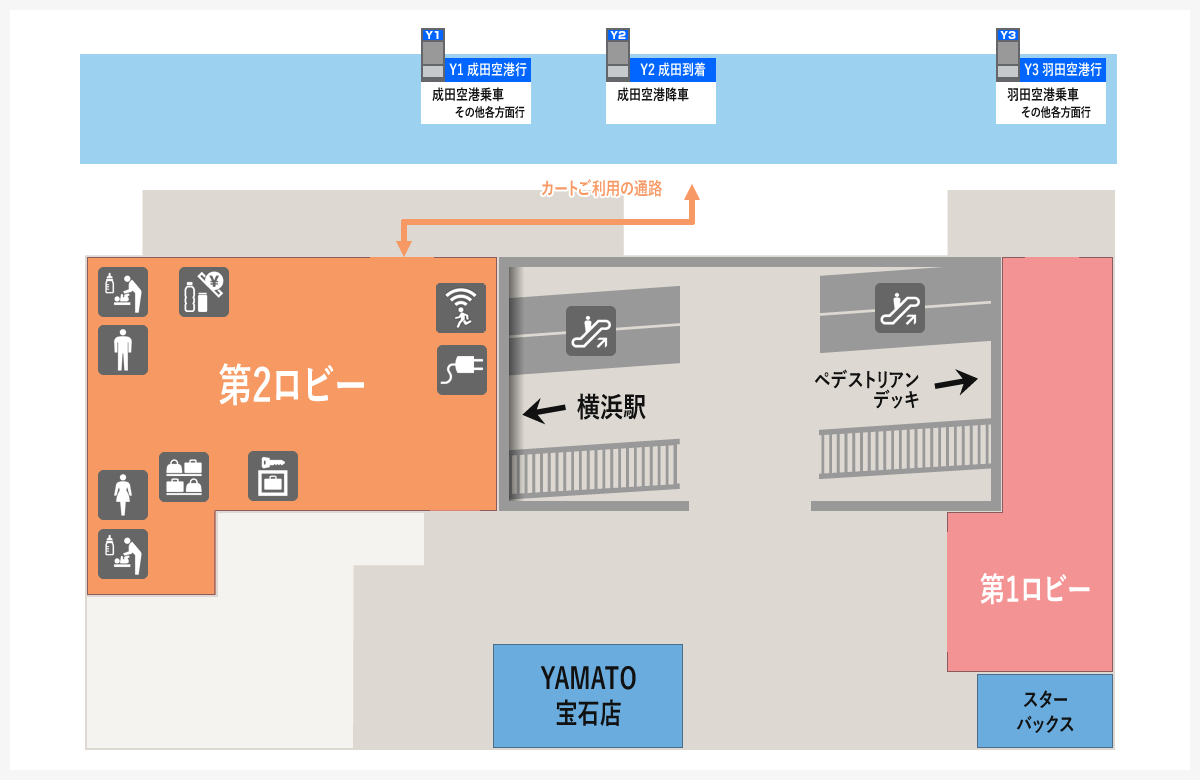
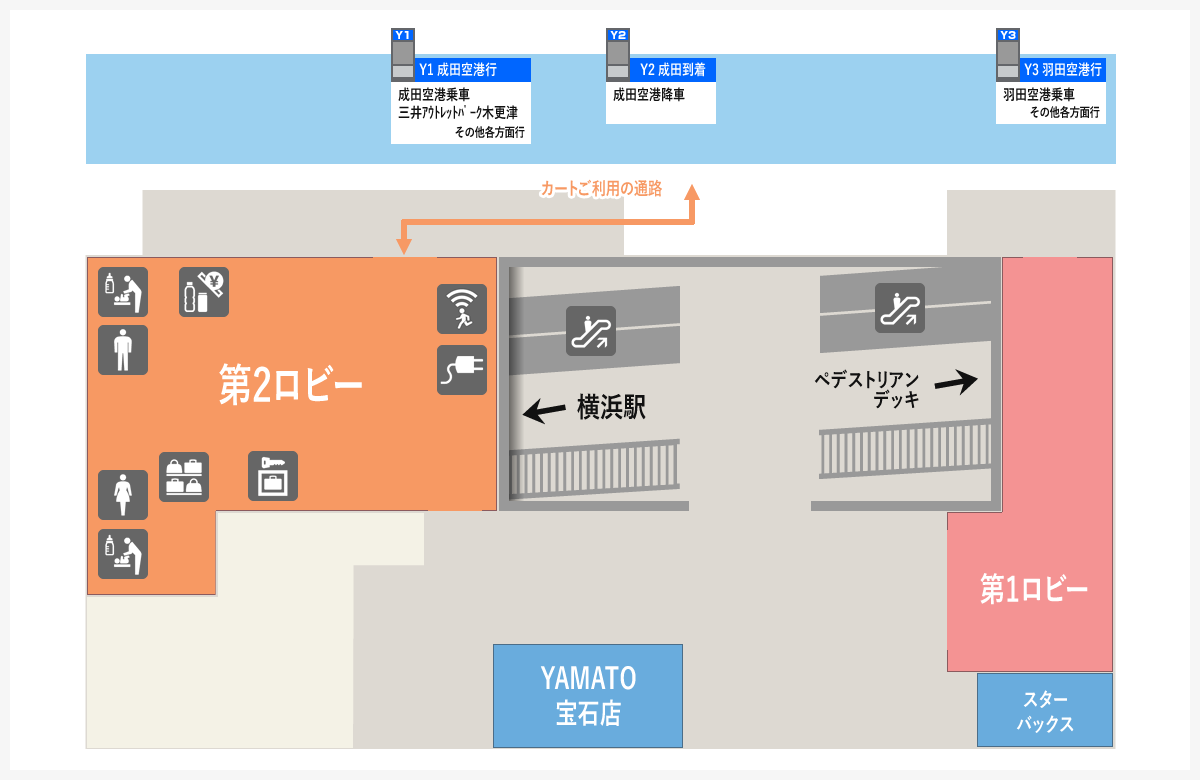
20250930-1120

diff --git a/css/common_sp.css b/css/common_sp.css
@@ -4118,6 +4118,18 @@ ul.qa-catLst li{
   text-decoration: none;
 }
 
+
+
+/* 通勤・通学定期*/
+
+table.fareTbl tbody th {
+  writing-mode: vertical-rl; /* 縦書き (右→左) */
+  text-orientation: upright; /* 日本語を正しく縦表示 */
+}
+table.fareTbl tbody td {
+	font-size:14px;
+}
+
 /*-------------------------------------------------------------------
 
 	アコーディオン機能

diff --git a/functions/shortcode.php b/functions/shortcode.php
@@ -1962,6 +1962,140 @@ function post_type_TIMETABLEPRINTCSV_shortcode($terms) {
 		$html .= 'printURL = printURL + "&flag=";'."\n";
 		break;
 
+
+	// ****************************************
+	// 五井・蘇我　（YCAT⇒五井・蘇我） - 【202509 - 6路線追加対応】
+	// ****************************************
+	case 'ycat2goi-soga':
+
+		$html .= 'printURL = printURL + "slug[0]=ycat2goi-soga";'."\n";
+		$html .= 'printURL = printURL + "&tit[0]= YCAT⇒五井・蘇我";'."\n";
+		$html .= 'printURL = printURL + "&flag=";'."\n";
+
+		break;
+
+	// ****************************************
+	// 五井・蘇我　（五井・蘇我⇒YCAT） - 【202509 - 6路線追加対応】
+	// ****************************************
+	case 'goi-soga2ycat':
+
+		$html .= 'printURL = printURL + "slug[0]=goi-soga2ycat";'."\n";
+		$html .= 'printURL = printURL + "&tit[0]= 五井・蘇我⇒YCAT";'."\n";
+		$html .= 'printURL = printURL + "&flag=";'."\n";
+
+		break;
+
+	// ****************************************
+	// 君津バスターミナル・館山　（YCAT⇒君津バスターミナル・館山） - 【202509 - 6路線追加対応】
+	// ****************************************
+	case 'ycat2kimitsu-tateyama':
+
+		$html .= 'printURL = printURL + "slug[0]=ycat2kimitsu-tateyama";'."\n";
+		$html .= 'printURL = printURL + "&tit[0]= YCAT⇒君津バスターミナル・館山";'."\n";
+		$html .= 'printURL = printURL + "&flag=";'."\n";
+
+		break;
+
+	// ****************************************
+	// 君津バスターミナル・館山　（君津バスターミナル・館山⇒YCAT） - 【202509 - 6路線追加対応】
+	// ****************************************
+	case 'kimitsu-tateyama2ycat':
+
+		$html .= 'printURL = printURL + "slug[0]=kimitsu-tateyama2ycat";'."\n";
+		$html .= 'printURL = printURL + "&tit[0]= 君津バスターミナル・館山⇒YCAT";'."\n";
+		$html .= 'printURL = printURL + "&flag=";'."\n";
+
+		break;
+
+	// ****************************************
+	// 茂原　（YCAT⇒茂原） - 【202509 - 6路線追加対応】
+	// ****************************************
+	case 'ycat2mobara':
+
+		$html .= 'printURL = printURL + "slug[0]=ycat2mobara";'."\n";
+		$html .= 'printURL = printURL + "&tit[0]= YCAT⇒茂原";'."\n";
+		$html .= 'printURL = printURL + "&flag=";'."\n";
+
+		break;
+
+	// ****************************************
+	// 茂原　（茂原⇒YCAT） - 【202509 - 6路線追加対応】
+	// ****************************************
+	case 'mobara2ycat':
+
+		$html .= 'printURL = printURL + "slug[0]=mobara2ycat";'."\n";
+		$html .= 'printURL = printURL + "&tit[0]= 茂原⇒YCAT";'."\n";
+		$html .= 'printURL = printURL + "&flag=";'."\n";
+
+		break;
+
+	// ****************************************
+	// 御殿場・箱根桃源台　（YCAT⇒御殿場・箱根桃源台） - 【202509 - 6路線追加対応】
+	// ****************************************
+	case 'ycat2gotemba-hakone':
+
+		$html .= 'printURL = printURL + "slug[0]=ycat2gotemba-hakone";'."\n";
+		$html .= 'printURL = printURL + "&tit[0]= YCAT⇒御殿場・箱根桃源台";'."\n";
+		$html .= 'printURL = printURL + "&flag=";'."\n";
+
+		break;
+
+	// ****************************************
+	// 御殿場・箱根桃源台　（御殿場・箱根桃源台⇒YCAT） - 【202509 - 6路線追加対応】
+	// ****************************************
+	case 'gotemba-hakone2ycat':
+
+		$html .= 'printURL = printURL + "slug[0]=gotemba-hakone2ycat";'."\n";
+		$html .= 'printURL = printURL + "&tit[0]= 御殿場・箱根桃源台⇒YCAT";'."\n";
+		$html .= 'printURL = printURL + "&flag=";'."\n";
+
+		break;
+
+	// ****************************************
+	// 甲府・竜王　（YCAT⇒甲府・竜王） - 【202509 - 6路線追加対応】
+	// ****************************************
+	case 'ycat2kofu-ryuo':
+
+		$html .= 'printURL = printURL + "slug[0]=ycat2kofu-ryuo";'."\n";
+		$html .= 'printURL = printURL + "&tit[0]= YCAT⇒甲府・竜王";'."\n";
+		$html .= 'printURL = printURL + "&flag=";'."\n";
+
+		break;
+
+	// ****************************************
+	// 甲府・竜王　（甲府・竜王⇒YCAT） - 【202509 - 6路線追加対応】
+	// ****************************************
+	case 'kofu-ryuo2ycat':
+
+		$html .= 'printURL = printURL + "slug[0]=kofu-ryuo2ycat";'."\n";
+		$html .= 'printURL = printURL + "&tit[0]= 甲府・竜王⇒YCAT";'."\n";
+		$html .= 'printURL = printURL + "&flag=";'."\n";
+
+		break;
+
+	// ****************************************
+	// 三井アウトレットパーク木更津　（YCAT⇒三井アウトレットパーク木更津） - 【202509 - 6路線追加対応】
+	// ****************************************
+	case 'ycat2mitsui-kisarazu':
+
+		$html .= 'printURL = printURL + "slug[0]=ycat2mitsui-kisarazu";'."\n";
+		$html .= 'printURL = printURL + "&tit[0]= YCAT⇒三井アウトレットパーク木更津";'."\n";
+		$html .= 'printURL = printURL + "&flag=";'."\n";
+
+		break;
+
+	// ****************************************
+	// 三井アウトレットパーク木更津　（三井アウトレットパーク木更津⇒YCAT） - 【202509 - 6路線追加対応】
+	// ****************************************
+	case 'mitsui-kisarazu2ycat':
+
+		$html .= 'printURL = printURL + "slug[0]=mitsui-kisarazu2ycat";'."\n";
+		$html .= 'printURL = printURL + "&tit[0]= 三井アウトレットパーク木更津⇒YCAT";'."\n";
+		$html .= 'printURL = printURL + "&flag=";'."\n";
+
+		break;
+
+
 	// ****************************************
 	// 東扇島　（YCAT ⇒ 東扇島）
 	// ****************************************

diff --git a/include_footer.php b/include_footer.php
@@ -93,6 +93,16 @@
 					<li><a href="<?=get_bloginfo("url"); ?>/route/higashiohgishima/">東扇島</a></li>
 					<li><a href="<?=get_bloginfo("url"); ?>/route/yokosuka/">葉山・横須賀西地区</a></li>
 					<li><a href="<?=get_bloginfo("url"); ?>/route/seaparadise/">横浜・八景島シーパラダイス</a></li>
+
+
+					<li><a href="<?=get_bloginfo("url"); ?>/route/goi-soga/">五井・蘇我</a></li>
+					<li><a href="<?=get_bloginfo("url"); ?>/route/kimitsu-tateyama/">君津バスターミナル・館山</a></li>
+					<li><a href="<?=get_bloginfo("url"); ?>/route/mobara/">茂原</a></li>
+					<li><a href="<?=get_bloginfo("url"); ?>/route/gotemba-hakone/">御殿場・箱根桃源台</a></li>
+					<li><a href="<?=get_bloginfo("url"); ?>/route/kofu-ryuo/">甲府・竜王</a></li>
+					<li><a href="<?=get_bloginfo("url"); ?>/route/mitsui-kisarazu/">三井アウトレットパーク木更津</a></li>
+
+
 					<li><a href="<?=get_bloginfo("url"); ?>/route/makuhari/">幕張メッセ（イベント日限定）</a></li>
 					<li><a href="<?=get_bloginfo("url"); ?>/route/long/">中長距離・夜行</a></li>
 				</ul>
